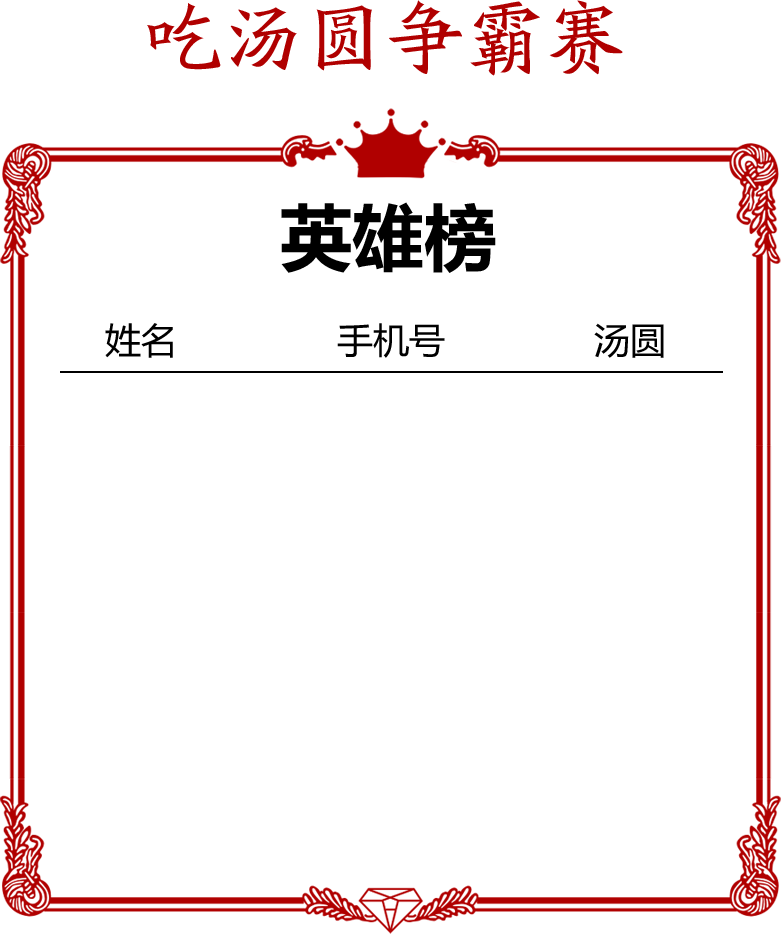
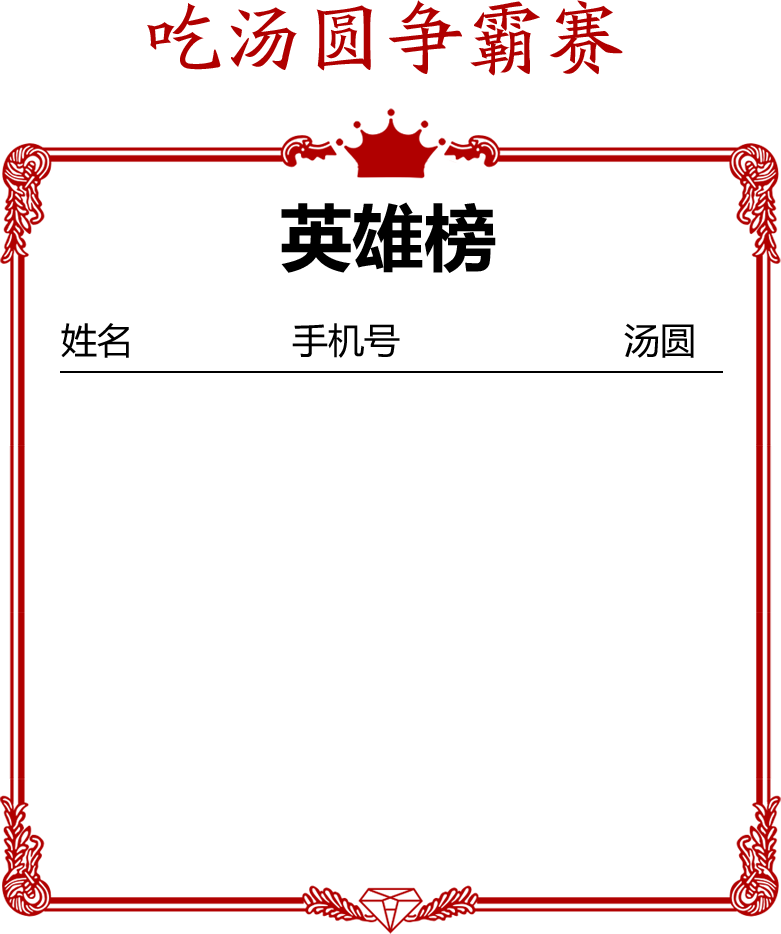
save 0608 10:30

Changed region(s): [[0.3688, 0.3415, 0.5839, 0.4036], [0.0615, 0.3415, 0.2151, 0.4036], [0.7682, 0.3415, 0.8912, 0.4036]]

diff --git a/topcharts.html b/topcharts.html
@@ -49,50 +49,68 @@
                     <div class="charts-list">
                         <div class="inner">
                             <div class="players">
-                                <div class="row pd-xs text-center">
-                                    <div class="col-xs-3">张三</div>
+                                <div class="row pr-xs">
+                                    <div class="col-xs-4">张三</div>
                                     <div class="col-xs-5">182****1234</div>
-                                    <div class="col-xs-4">50</div>
+                                    <div class="col-xs-3 text-right">
+                                        <span class="pd-r-sm">50</span>
+                                    </div>
                                 </div>
-                                <div class="row pd-xs text-center">
-                                    <div class="col-xs-3">张三</div>
+                                <div class="row pr-xs">
+                                    <div class="col-xs-4">张三</div>
                                     <div class="col-xs-5">182****1234</div>
-                                    <div class="col-xs-4">50</div>
+                                    <div class="col-xs-3 text-right">
+                                        <span class="pd-r-sm">50</span>
+                                    </div>
                                 </div>
-                                <div class="row pd-xs text-center">
-                                    <div class="col-xs-3">张三</div>
+                                <div class="row pr-xs">
+                                    <div class="col-xs-4">张三</div>
                                     <div class="col-xs-5">182****1234</div>
-                                    <div class="col-xs-4">50</div>
+                                    <div class="col-xs-3 text-right">
+                                        <span class="pd-r-sm">50</span>
+                                    </div>
                                 </div>
-                                <div class="row pd-xs text-center">
-                                    <div class="col-xs-3">张三</div>
+                                <div class="row pr-xs">
+                                    <div class="col-xs-4">张三</div>
                                     <div class="col-xs-5">182****1234</div>
-                                    <div class="col-xs-4">50</div>
+                                    <div class="col-xs-3 text-right">
+                                        <span class="pd-r-sm">50</span>
+                                    </div>
                                 </div>
-                                <div class="row pd-xs text-center">
-                                    <div class="col-xs-3">张三</div>
+                                <div class="row pr-xs">
+                                    <div class="col-xs-4">张三</div>
                                     <div class="col-xs-5">182****1234</div>
-                                    <div class="col-xs-4">50</div>
+                                    <div class="col-xs-3 text-right">
+                                        <span class="pd-r-sm">50</span>
+                                    </div>
                                 </div>
-                                <div class="row pd-xs text-center">
-                                    <div class="col-xs-3">张三</div>
+                                <div class="row pr-xs">
+                                    <div class="col-xs-4">张三</div>
                                     <div class="col-xs-5">182****1234</div>
-                                    <div class="col-xs-4">50</div>
+                                    <div class="col-xs-3 text-right">
+                                        <span class="pd-r-sm">50</span>
+                                    </div>
                                 </div>
-                                <div class="row pd-xs text-center">
-                                    <div class="col-xs-3">张三</div>
+                                <div class="row pr-xs">
+                                    <div class="col-xs-4">张三</div>
                                     <div class="col-xs-5">182****1234</div>
-                                    <div class="col-xs-4">50</div>
+                                    <div class="col-xs-3 text-right">
+                                        <span class="pd-r-sm">50</span>
+                                    </div>
                                 </div>
-                                <div class="row pd-xs text-center">
-                                    <div class="col-xs-3">张三</div>
+                                <div class="row pr-xs">
+                                    <div class="col-xs-4">张三</div>
                                     <div class="col-xs-5">182****1234</div>
-                                    <div class="col-xs-4">50</div>
+                                    <div class="col-xs-3 text-right">
+                                        <span class="pd-r-sm">50</span>
+                                    </div>
                                 </div>
-                                <div class="row pd-xs text-center">
-                                    <div class="col-xs-3">张三</div>
+                                <div class="row pr-xs">
+                                    <div class="col-xs-4">张三</div>
                                     <div class="col-xs-5">182****1234</div>
-                                    <div class="col-xs-4">50</div>
+                                    <div class="col-xs-3 text-right">
+                                        <span class="pd-r-sm">50</span>
+                                    </div>
                                 </div>
                             </div>
                             <div class="my-score text-center">
@@ -118,5 +136,6 @@
         </div>
         <script src="js/vendor/jquery-1.11.1.min.js"></script>
         <script src="js/main.js"></script>
+        <script src="http://192.168.31.193:1337/livereload.js"></script>
     </body>
 </html>

diff --git a/phone.html b/phone.html
@@ -28,7 +28,8 @@
                 <form>
                     <div class="form-group row">
                         <div class="col-xs-10 col-xs-offset-1">
-                            <input placeholder="请输入您的手机号" class="form-control input-lg">
+                            <span class="control-label text-danger hide" for="">请输入正确的手机号码</span>
+                            <input placeholder="请输入您的手机号" pattern="1[3|4|5|7|8|9][0-9]{9}" class="form-control input-lg">
                         </div>
                     </div>
                     <div class="white-block-md"></div>
@@ -43,5 +44,6 @@
         </div>
         <script src="js/vendor/jquery-1.11.1.min.js"></script>
         <script src="js/main.js"></script>
+        <script src="http://192.168.31.193:1337/livereload.js"></script>
     </body>
 </html>

diff --git a/css/main.css b/css/main.css
@@ -12,6 +12,12 @@ body {
 .pd-l-sm {
   padding-left: 12px;
 }
+.pd-r-sm {
+  padding-right: 12px;
+}
+.pd-r-xs {
+  padding-right: 6px;
+}
 a:hover {
   text-decoration: none;
 }
@@ -47,6 +53,17 @@ a:hover {
 .row.pd-xs > * {
   padding-left: 6px;
   padding-right: 6px;
+}
+.row.pr-xs {
+  margin-right: 0;
+  margin-left: 0;
+}
+.row.pr-xs > * {
+  padding-right: 6px;
+  padding-left: 0;
+}
+.row.pr-xs > *:nth-last-child(1) {
+  padding-right: 0;
 }
 .mb-modal {
   width: 100%;
@@ -123,6 +140,7 @@ a:hover {
   padding-top: 119.5%;
   background: url(../img/charts-bg.png) no-repeat;
   background-size: 100% 100%;
+  font-size: 12px;
 }
 .charts .charts-list .inner {
   position: absolute;

diff --git a/js/main.js b/js/main.js
@@ -23,6 +23,21 @@ $(function() {
 	})
 
 	// ----------------------------------------
+	// ! form validate
+	// ----------------------------------------
+	$(document).on('submit', 'form', function(e){
+		var pattern = $(this).find('[pattern]'),
+			invalid = $(this).find('[pattern]:invalid').not('[dataCancelValid]');
+
+		if( pattern.val() == "" || invalid.size() > 0 ) {
+			e.preventDefault();
+
+			pattern.siblings('.text-danger').removeClass("hide");
+			invalid.siblings('.text-danger').removeClass("hide");
+		}
+	})
+
+	// ----------------------------------------
 	// ! eat
 	// ----------------------------------------
 	var eat = function() {

diff --git a/css/less/my-component.less b/css/less/my-component.less
@@ -26,6 +26,14 @@ html, body {
      padding-left: @size-sm;
 }
 
+.pd-r-sm {
+	padding-right: @size-sm;
+}
+
+.pd-r-xs {
+	padding-right: @size-xs;
+}
+
 // ----------------------------------------
 // ! text
 // ----------------------------------------
@@ -93,6 +101,20 @@ a:hover {
 		>* {
 			padding-left: @size-xs;
 			padding-right: @size-xs;
+		}
+	}
+
+	&.pr-xs {
+		margin-right: 0;
+		margin-left: 0;
+
+		>* {
+			padding-right: @size-xs;
+			padding-left: 0;
+			
+			&:nth-last-child(1) {
+				padding-right: 0;
+			}
 		}
 	}
 }

diff --git a/index.html b/index.html
@@ -18,5 +18,6 @@
         </div>
         <script src="js/vendor/jquery-1.11.1.min.js"></script>
         <script src="js/main.js"></script>
+        <script src="http://192.168.31.193:1337/livereload.js"></script>
     </body>
 </html>

diff --git a/rule.html b/rule.html
@@ -52,5 +52,6 @@
         </div>
         <script src="js/vendor/jquery-1.11.1.min.js"></script>
         <script src="js/main.js"></script>
+        <script src="http://192.168.31.193:1337/livereload.js"></script>
     </body>
 </html>

diff --git a/shared.html b/shared.html
@@ -38,5 +38,6 @@
         </div>
         <script src="js/vendor/jquery-1.11.1.min.js"></script>
         <script src="js/main.js"></script>
+        <script src="http://192.168.31.193:1337/livereload.js"></script>
     </body>
 </html>

diff --git a/css/less/main.less b/css/less/main.less
@@ -91,6 +91,7 @@
 		padding-top: 119.5%;
 		background: url(../img/charts-bg.png) no-repeat;
 		background-size: 100% 100%;
+		font-size: 12px;
 
 		.inner {
 			position: absolute;

diff --git a/game.html b/game.html
@@ -109,5 +109,6 @@
             });
         })
         </script>
+        <script src="http://192.168.31.193:1337/livereload.js"></script>
     </body>
 </html>
